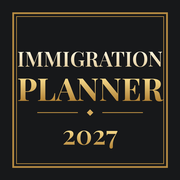
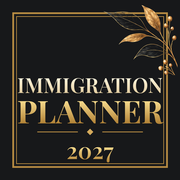
Ícono con hojas doradas
Claude-Session: https://claude.ai/code/session_0191BAAGwvs5Ln4Gkr2YgpjW

Changed region(s): [[0.0833, 0.0278, 1.0, 0.6944], [0.1944, 0.7222, 0.8056, 0.9167]]

diff --git a/sw.js b/sw.js
@@ -1,5 +1,5 @@
 // Service worker: guarda la "carcasa" de la app para que abra rápido; los datos siempre vienen de Supabase
-const CACHE = 'planificador-v2';
+const CACHE = 'planificador-v3';
 const SHELL = ['/', '/index.html', '/styles.css', '/config.js', '/planner.js', '/auth.js', '/data/content.js', '/data/spec.js', '/data/extra.js', '/icons/icon-192.png'];
 self.addEventListener('install', e => { e.waitUntil(caches.open(CACHE).then(c => c.addAll(SHELL))); self.skipWaiting(); });
 self.addEventListener('activate', e => { e.waitUntil(caches.keys().then(ks => Promise.all(ks.filter(k => k !== CACHE).map(k => caches.delete(k))))); self.clients.claim(); });
